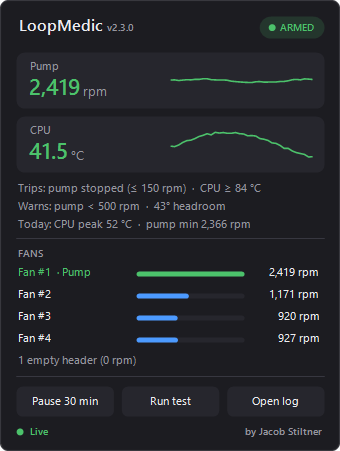
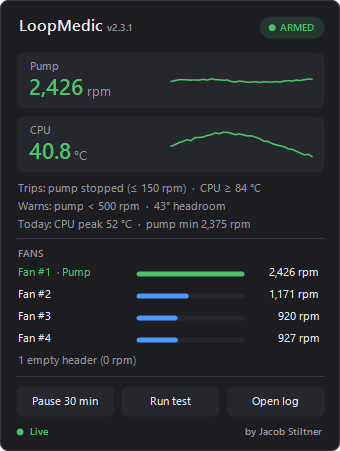
v2.3.1: Neon Dark + Neon Light themes, yellow Atomic, air coolers in the README
- Atomic: yellow pump/CPU readings, graphs and pump bar; other fans grey
- New Neon Dark (magenta pump, cyan CPU) and Neon Light (magenta, violet, neon orange)
- CPU reading can have its own theme colour; "Update now" button follows the theme
- README: works with AIO / water and air coolers

Claude-Session: https://claude.ai/code/session_01AMxwtfnaucyyP3Ydup7hch

diff --git a/windows/tray/LoopMedicTray.cs b/windows/tray/LoopMedicTray.cs
@@ -26,7 +26,7 @@ using System.Windows.Forms;
 [assembly: System.Reflection.AssemblyCompany("Jacob Stiltner")]
 [assembly: System.Reflection.AssemblyProduct("LoopMedic")]
 [assembly: System.Reflection.AssemblyCopyright("(c) 2026 Jacob Stiltner")]
-[assembly: System.Reflection.AssemblyVersion("2.3.0.0")]
+[assembly: System.Reflection.AssemblyVersion("2.3.1.0")]
 
 namespace LoopMedicTray
 {
@@ -175,10 +175,10 @@ namespace LoopMedicTray
     // state is readable at a glance: green ARMED / Live, amber warnings, red alarms, blue tests, grey paused.
     static class Theme
     {
-        public static readonly string[] Names = { "Stealth", "Atomic", "Dark Side", "Ice" };
+        public static readonly string[] Names = { "Stealth", "Atomic", "Dark Side", "Neon Dark", "Neon Light", "Ice" };
         public static string Name = "Stealth";
         public static bool Dark = true;
-        public static Color Bg, Card, CardHot, Line, Text, Dim, Accent, Accent2, Link, WarnText;
+        public static Color Bg, Card, CardHot, Line, Text, Dim, Accent, Accent2, CpuAccent, Link, WarnText, UpdateBtn;
         public static readonly Color Green = Color.FromArgb(76, 194, 107), Amber = Color.FromArgb(240, 168, 48),
                                      Red = Color.FromArgb(229, 72, 77), Blue = Color.FromArgb(76, 154, 255),
                                      Grey = Color.FromArgb(138, 143, 152), Off = Color.FromArgb(90, 90, 98);
@@ -191,10 +191,10 @@ namespace LoopMedicTray
         {
             switch (name)
             {
-                case "Atomic":       // deep navy, electric blue + yellow
+                case "Atomic":       // deep navy + yellow: pump/CPU readings, graphs and the pump bar; other fans grey
                     Bg = C(13, 21, 43); Card = C(22, 35, 68); CardHot = C(34, 52, 96); Line = C(40, 58, 100);
                     Text = C(236, 242, 255); Dim = C(146, 163, 200);
-                    Accent = C(56, 189, 255); Accent2 = C(255, 214, 10);
+                    Accent = C(255, 214, 10); Accent2 = C(150, 162, 190);
                     Link = C(255, 214, 10); Dark = true;
                     break;
                 case "Dark Side":    // near-black purple, blue + pink/magenta
@@ -202,6 +202,18 @@ namespace LoopMedicTray
                     Text = C(246, 236, 252); Dim = C(176, 152, 190);
                     Accent = C(84, 150, 255); Accent2 = C(255, 77, 196);
                     Link = C(255, 128, 214); Dark = true;
+                    break;
+                case "Neon Dark":    // near-black purple: hot magenta pump, neon cyan CPU; other fans grey
+                    Bg = C(18, 10, 24); Card = C(33, 19, 44); CardHot = C(50, 30, 66); Line = C(62, 38, 80);
+                    Text = C(246, 236, 252); Dim = C(176, 152, 190);
+                    Accent = C(255, 77, 196); Accent2 = C(168, 150, 182); CpuAccent = C(0, 229, 255);   // + neon cyan CPU
+                    Link = C(255, 128, 214); Dark = true;
+                    break;
+                case "Neon Light":   // soft lilac white: magenta pump, electric violet CPU, neon orange for the other fans
+                    Bg = C(253, 247, 252); Card = C(246, 232, 246); CardHot = C(236, 214, 238); Line = C(230, 210, 232);
+                    Text = C(48, 18, 62); Dim = C(124, 98, 140);
+                    Accent = C(214, 0, 128); Accent2 = C(255, 122, 0); CpuAccent = C(124, 58, 237);
+                    Link = C(196, 0, 120); Dark = false;
                     break;
                 case "Ice":          // white, blue graphs and text
                     Bg = C(247, 250, 255); Card = C(230, 239, 250); CardHot = C(214, 228, 246); Line = C(204, 217, 235);
@@ -217,7 +229,10 @@ namespace LoopMedicTray
                     Link = C(122, 176, 255); Dark = true;
                     break;
             }
+            if (name != "Neon Dark" && name != "Neon Light") CpuAccent = Accent;   // the Neon themes give the CPU its own colour
             Name = name;
+            // "Update now" button: the theme's main colour where the other fans are grey, else the second colour.
+            UpdateBtn = name == "Atomic" || name.StartsWith("Neon") ? Accent : Accent2;
             // Long warning lines: the same amber, a shade deeper on the white theme so the words stay readable.
             WarnText = Dark ? Amber : Color.FromArgb(178, 110, 0);
         }
@@ -929,7 +944,7 @@ namespace LoopMedicTray
             double lim = st.CpuMaxTemp.HasValue && st.CpuMaxTemp.Value > 0 ? st.CpuMaxTemp.Value : 95;
             if (st.CpuTemp.Value >= lim) return Theme.Red;
             if (st.CpuTemp.Value >= lim - 10) return Theme.Amber;
-            return Theme.Accent;
+            return Theme.CpuAccent;
         }
 
         void DrawMetric(Graphics g, ref float y, float pad, float W, string label, string value, string unit, Color c,
@@ -1106,13 +1121,13 @@ namespace LoopMedicTray
             var notes = new TextBox { Multiline = true, ReadOnly = true, ScrollBars = ScrollBars.Vertical, BorderStyle = BorderStyle.None,
                                       BackColor = Theme.Card, ForeColor = Theme.Text, Text = Clean(rel.Notes), TabStop = false,
                                       Location = new Point(pad, pad + (int)(80 * S)), Size = new Size(w, (int)(150 * S)) };
-            var link = new LinkLabel { Text = "Full changelog on GitHub", LinkColor = Theme.Link, ActiveLinkColor = Theme.Accent2, VisitedLinkColor = Theme.Link,
+            var link = new LinkLabel { Text = "Full changelog on GitHub", LinkColor = Theme.Link, ActiveLinkColor = Theme.UpdateBtn, VisitedLinkColor = Theme.Link,
                                        LinkBehavior = LinkBehavior.HoverUnderline, AutoSize = true, Location = new Point(pad, pad + (int)(238 * S)) };
             link.LinkClicked += delegate { try { Process.Start(rel.PageUrl); } catch { } };
             status = new Label { ForeColor = Theme.Dim, Location = new Point(pad, pad + (int)(258 * S)), Size = new Size(w, (int)(18 * S)) };
             int bh = (int)(32 * S), bw = (int)(120 * S), by = ClientSize.Height - pad - bh;
             bLater = Flat("Later", Theme.Card, new Rectangle(ClientSize.Width - pad - bw, by, bw, bh));
-            bUpdate = Flat("Update now", Theme.Accent2, new Rectangle(ClientSize.Width - pad - bw * 2 - (int)(8 * S), by, bw, bh));
+            bUpdate = Flat("Update now", Theme.UpdateBtn, new Rectangle(ClientSize.Width - pad - bw * 2 - (int)(8 * S), by, bw, bh));
             bLater.Click += delegate { Close(); };
             bUpdate.Click += delegate { StartUpdate(); };
             Controls.AddRange(new Control[] { title, sub, head, notes, link, status, bUpdate, bLater });

diff --git a/linux/loopmedic/loopmedic_tray.py b/linux/loopmedic/loopmedic_tray.py
@@ -145,12 +145,17 @@ THEMES = {
     "Stealth": ((28, 28, 33), (38, 38, 45), (58, 58, 68), (55, 55, 64), (236, 236, 240), (150, 150, 160),
                 (76, 194, 107), (76, 154, 255), (240, 168, 48), (229, 72, 77), (122, 176, 255), (138, 143, 152), (90, 90, 98)),
     "Atomic": ((13, 21, 43), (22, 35, 68), (34, 52, 96), (40, 58, 100), (236, 242, 255), (146, 163, 200),
-               (56, 189, 255), (255, 214, 10), (255, 138, 40), (255, 70, 85), (255, 214, 10), (140, 150, 170), (85, 95, 115)),
+               (255, 214, 10), (150, 162, 190), (255, 138, 40), (255, 70, 85), (255, 214, 10), (140, 150, 170), (85, 95, 115)),
     "Dark Side": ((18, 10, 24), (33, 19, 44), (50, 30, 66), (62, 38, 80), (246, 236, 252), (176, 152, 190),
                   (84, 150, 255), (255, 77, 196), (255, 170, 50), (255, 59, 59), (255, 128, 214), (150, 140, 160), (95, 85, 105)),
+    "Neon Dark": ((18, 10, 24), (33, 19, 44), (50, 30, 66), (62, 38, 80), (246, 236, 252), (176, 152, 190),
+                  (255, 77, 196), (168, 150, 182), (255, 170, 50), (255, 59, 59), (255, 128, 214), (150, 140, 160), (95, 85, 105)),
+    "Neon Light": ((253, 247, 252), (246, 232, 246), (236, 214, 238), (230, 210, 232), (48, 18, 62), (124, 98, 140),
+                   (214, 0, 128), (255, 122, 0), (196, 118, 0), (206, 32, 48), (196, 0, 120), (118, 128, 144), (160, 168, 180)),
     "Ice": ((247, 250, 255), (230, 239, 250), (214, 228, 246), (204, 217, 235), (16, 48, 96), (88, 112, 148),
             (22, 112, 224), (70, 160, 240), (196, 118, 0), (206, 32, 48), (0, 96, 200), (118, 128, 144), (160, 168, 180)),
 }
+CPU_ACCENT = {"Neon Dark": (0, 229, 255), "Neon Light": (124, 58, 237)}   # the Neon themes give the CPU its own colour
 THEME_FILE = os.path.join(os.path.expanduser("~"), ".config", "loopmedic", "theme.txt")   # per user
 
 
@@ -165,9 +170,10 @@ class T:
             name = "Stealth"
         c = [QColor(*x) for x in THEMES[name]]
         T.Bg, T.Card, T.Hot, T.Line, T.Text, T.Dim, T.Accent, T.Accent2, T.Link = c[0], c[1], c[2], c[3], c[4], c[5], c[6], c[7], c[10]
+        T.CpuAccent = QColor(*CPU_ACCENT[name]) if name in CPU_ACCENT else T.Accent
         T.name = name
-        # Long warning lines: the same amber, a shade deeper on the white theme so the words stay readable.
-        T.WarnText = QColor(178, 110, 0) if name == "Ice" else T.Amber
+        # Long warning lines: the same amber, a shade deeper on the light themes so the words stay readable.
+        T.WarnText = QColor(178, 110, 0) if name in ("Ice", "Neon Light") else T.Amber
 
     @staticmethod
     def load():
@@ -644,7 +650,7 @@ class Panel(QWidget, Clickable):
             return T.Red
         if st.cpu_temp >= lim - 10:
             return T.Amber
-        return T.Accent
+        return T.CpuAccent
 
     def draw_metric(self, g, y, pad, W, label, value, unit, c, hist, floor, fBig, fMid, fSmall):
         card = QRectF(pad, y, W - pad * 2, 56)

diff --git a/windows/src/LoopMedic.cs b/windows/src/LoopMedic.cs
@@ -35,7 +35,7 @@ using System.Web.Script.Serialization;
 [assembly: AssemblyDescription("LoopMedic watchdog - powers the PC off if the AIO pump stops or the CPU overheats")]
 [assembly: AssemblyCompany("Jacob Stiltner")]
 [assembly: AssemblyCopyright("(c) 2026 Jacob Stiltner")]
-[assembly: AssemblyVersion("2.3.0.0")]
+[assembly: AssemblyVersion("2.3.1.0")]
 
 namespace LoopMedic
 {
@@ -97,7 +97,7 @@ namespace LoopMedic
 
     static class Program
     {
-        public const string Version = "2.3.0";
+        public const string Version = "2.3.1";
         public static Options Opt;
 
         static int Main(string[] args)

diff --git a/linux/loopmedic/loopmedic.py b/linux/loopmedic/loopmedic.py
@@ -52,7 +52,7 @@ import time
 from datetime import datetime, timedelta
 from email.message import EmailMessage
 
-VERSION = "2.3.0"
+VERSION = "2.3.1"
 GPU_CHIPS = {"amdgpu", "radeon", "nouveau", "nvidia", "i915", "xe"}
 CPU_CHIPS = ("k10temp", "zenpower", "coretemp")
 TIMER_UNIT = "loopmedic-poweroff"

diff --git a/README.md b/README.md
@@ -1,22 +1,23 @@
 # LoopMedic
 
-**Powers your PC off if your AIO pump stops, before the CPU cooks.**
+**Powers your PC off if your CPU cooler stops, before the CPU cooks.** Works with AIO / water coolers
+(it watches the pump) and air coolers (it watches the CPU fan). Setup asks which one you have.
 
 <p align="center"><img src="docs/panel.png" alt="The LoopMedic tray panel: live pump speed and CPU temperature with graphs, trip limits, today's peaks and every fan header" width="340"></p>
 
-LoopMedic runs quietly from startup and checks the pump speed and CPU temperature every 2 seconds.
+LoopMedic runs quietly from startup and checks your pump (or CPU fan) and the CPU temperature every 2 seconds.
 
-| When...                                     | for...                    | then...                                                     |
-|---------------------------------------------|---------------------------|-------------------------------------------------------------|
-| the pump has **stopped** (150 rpm or less)  | 10 s                      | an alarm with a 30 s countdown, then a forced power-off     |
-| the CPU is at or above its limit            | 30 s (60 s on some chips) | same                                                        |
-| the pump is **slower** than usual           | 10 s                      | a warning only                                              |
+| When...                                                  | for...                    | then...                                                 |
+|----------------------------------------------------------|---------------------------|---------------------------------------------------------|
+| the pump / CPU fan has **stopped** (150 rpm or less)     | 10 s                      | an alarm with a 30 s countdown, then a forced power-off |
+| the CPU is at or above its limit                         | 30 s (60 s on some chips) | same                                                    |
+| the pump / CPU fan is **slower** than usual              | 10 s                      | a warning only                                          |
 
 It only reads sensors: it never changes a fan or pump speed and leaves your cooler's app alone.
 
-**Also:** air coolers (the CPU fan takes the pump's place) · optional email alerts through your own mail
-server · four tray themes · a self-check at every boot and a self-test every month · an **experimental**
-early warning for a pump that is slowly slowing down (off unless you turn it on in setup).
+**Also:** optional email alerts through your own mail server · six tray themes · a self-check at every
+boot and a self-test every month · an **experimental** early warning for a pump or fan that is slowly
+slowing down (off unless you turn it on in setup).
 
 > **No warranty.** LoopMedic is an *extra* layer of protection on top of the ones your PC already has (BIOS
 > fan-fail and temperature shutdowns, the CPU's own thermal limits). It can miss a failure, and it can power

diff --git a/windows/CHANGELOG.md b/windows/CHANGELOG.md
@@ -2,6 +2,14 @@
 
 LoopMedic for Windows. The Linux port (../linux) keeps the same version numbers and rules.
 
+## 2.3.1 — 2026-11-27
+
+- **Two new themes.** Tray right-click > Themes: **Neon Dark** (hot magenta pump, neon cyan CPU) and
+  **Neon Light** (magenta pump, electric violet CPU, neon orange for the other fans, on white).
+- **Atomic** now uses yellow for the pump and CPU readings, both graphs and the pump bar; the other fans are
+  grey, so the pump stands out. The "Update now" button follows the theme.
+- The README now says plainly that LoopMedic works with AIO / water coolers and air coolers.
+
 ## 2.3.0 — 2026-11-27
 
 - **Air coolers.** Setup asks what cools your CPU. With an air cooler, the CPU fan takes the pump's place:

diff --git a/linux/CHANGELOG.md b/linux/CHANGELOG.md
@@ -2,6 +2,14 @@
 
 LoopMedic for Linux. The Windows version (../windows) keeps the same version numbers and rules.
 
+## 2.3.1 — 2026-11-27
+
+- **Two new themes.** Tray right-click > Themes: **Neon Dark** (hot magenta pump, neon cyan CPU) and
+  **Neon Light** (magenta pump, electric violet CPU, neon orange for the other fans, on white).
+- **Atomic** now uses yellow for the pump and CPU readings, both graphs and the pump bar; the other fans are
+  grey, so the pump stands out.
+- The README now says plainly that LoopMedic works with AIO / water coolers and air coolers.
+
 ## 2.3.0 — 2026-11-27
 
 - **Air coolers.** Setup asks what cools your CPU. With an air cooler, the CPU fan takes the pump's place:
